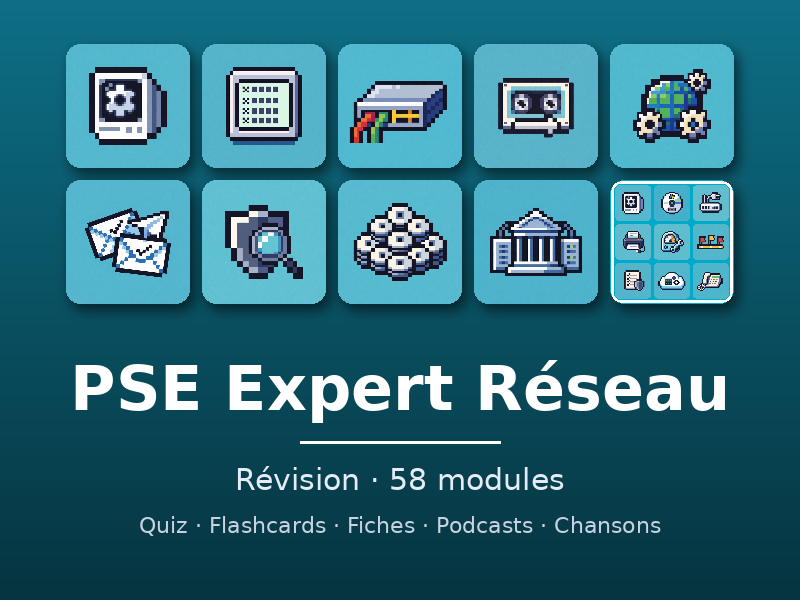
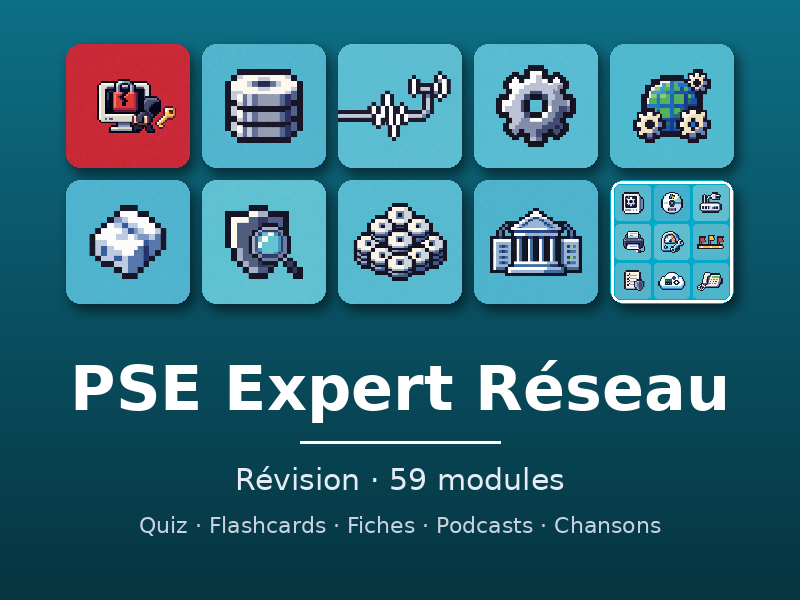
Inventaire des médias et vignette du jeu mis à jour

diff --git a/INVENTAIRE.md b/INVENTAIRE.md
@@ -1,6 +1,6 @@
 # Inventaire des modules et des médias — pse-expert-reseau
 
-Généré le 30/09/2026 à 00:21 par `scripts/inventaire_medias.py` (59 modules). ✅ présent, ❌ absent ; pour QCM, flashcards et TP, nombre d'éléments (0 = absent).
+Généré le 30/09/2026 à 07:21 par `scripts/inventaire_medias.py` (59 modules). ✅ présent, ❌ absent ; pour QCM, flashcards et TP, nombre d'éléments (0 = absent).
 
 ## Synthèse
 
